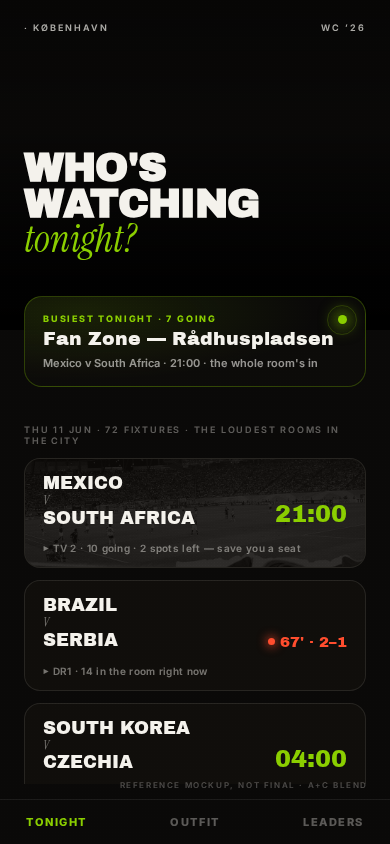
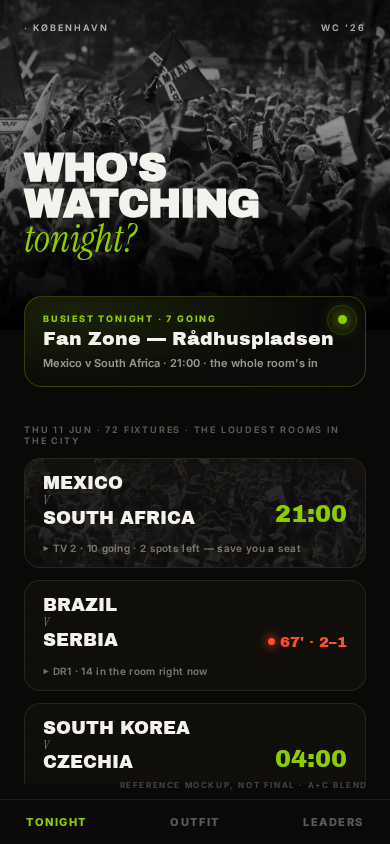
design(rebrand): apply the '92 crowd hero across Tonight + poster too
Consistent set — the Denmark Euro '92 fan celebration now carries through all four
blend mockups (splash, Tonight, match detail, share poster). Same rights note in
img/README.md applies (reference placeholder, license/replace before shipping).

diff --git a/docs/rebrand-mockups/blend/b-tonight.html b/docs/rebrand-mockups/blend/b-tonight.html
@@ -7,7 +7,7 @@
  .grain{position:absolute;inset:0;opacity:.06;background-image:radial-gradient(rgba(255,255,255,.9) .6px,transparent .7px);background-size:3px 3px;mix-blend-mode:overlay;pointer-events:none;z-index:5}
  /* full-bleed crowd photo as the hero band — the room is the hero */
  .hero{position:absolute;top:0;left:0;right:0;height:330px;
-   background:url('https://commons.wikimedia.org/wiki/Special:FilePath/FIFA_World_Cup_2006_-_ARG_vs_MEX.jpg?width=1000') center 26%/cover;
+   background:url('img/dk92-crowd.jpg') center 26%/cover;
    filter:grayscale(1) contrast(1.08) brightness(.66)}
  .hero .fade{position:absolute;inset:0;background:linear-gradient(180deg,rgba(10,9,8,.35) 0%,rgba(10,9,8,.1) 38%,rgba(10,9,8,.82) 80%,#0a0908 100%)}
  .top{position:absolute;top:22px;left:24px;right:24px;display:flex;justify-content:space-between;font-size:9px;letter-spacing:.22em;text-transform:uppercase;color:rgba(244,242,236,.7);z-index:3}
@@ -28,7 +28,7 @@
  .day{font-size:9px;letter-spacing:.2em;color:rgba(244,242,236,.36);margin:6px 0 12px;text-transform:uppercase}
  /* hero card with faint archival B&W photo behind */
  .card{position:relative;border:1px solid rgba(244,242,236,.10);border-radius:16px;overflow:hidden;margin-bottom:12px;background:#100e0b}
- .card.feat .ph{position:absolute;inset:0;background:url('https://commons.wikimedia.org/wiki/Special:FilePath/FIFA_World_Cup_2006_-_ARG_vs_MEX.jpg?width=900') center/cover;filter:grayscale(1) brightness(.45);opacity:.3}
+ .card.feat .ph{position:absolute;inset:0;background:url('img/dk92-crowd.jpg') center/cover;filter:grayscale(1) brightness(.45);opacity:.3}
  .card .in{position:relative;padding:15px 18px;display:flex;justify-content:space-between;align-items:flex-end}
  .card .t{font-family:'Archivo Black';font-size:18px;line-height:1.05;text-transform:uppercase}
  .card .t .v{font-family:'Instrument Serif';font-style:italic;font-weight:400;font-size:13px;color:rgba(244,242,236,.45);display:block;margin:1px 0}

diff --git a/docs/rebrand-mockups/blend/d-poster.html b/docs/rebrand-mockups/blend/d-poster.html
@@ -6,7 +6,7 @@
  .wrap{position:relative;width:390px;height:844px;background:#0a0908}
  /* full-bleed crowd photo, B&W, masked toward the node */
  .photo{position:absolute;inset:0;
-   background:url('https://commons.wikimedia.org/wiki/Special:FilePath/FIFA_World_Cup_2006_-_ARG_vs_MEX.jpg?width=1100') center 30%/cover;
+   background:url('img/dk92-crowd.jpg') center 30%/cover;
    filter:grayscale(1) contrast(1.14) brightness(.56);opacity:.5}
  .fade{position:absolute;inset:0;background:linear-gradient(180deg,rgba(10,9,8,.55) 0%,rgba(10,9,8,.2) 30%,rgba(10,9,8,.72) 66%,#0a0908 100%)}
  .grain{position:absolute;inset:0;opacity:.07;background-image:radial-gradient(rgba(255,255,255,.9) .6px,transparent .7px);background-size:3px 3px;mix-blend-mode:overlay}
